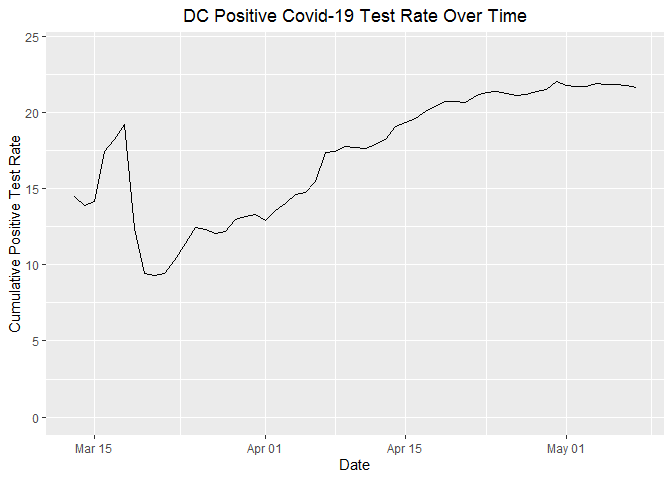
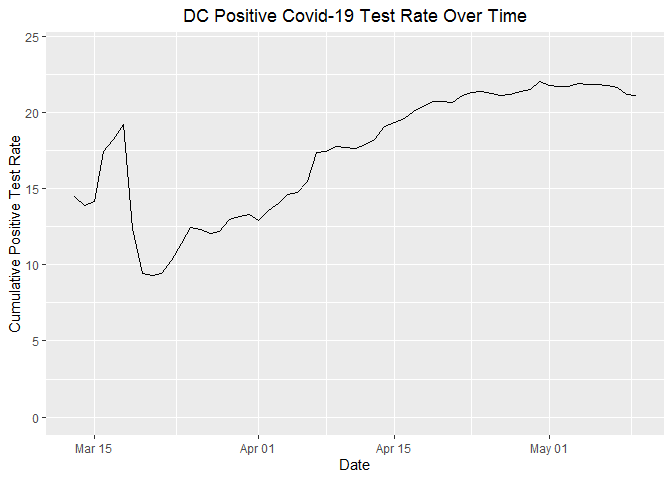
10 May data update

diff --git a/Markdown/Pos_Test_Rate.md b/Markdown/Pos_Test_Rate.md
@@ -1,7 +1,7 @@
 Positive Covid-19 Test Rate Increases Around DC
 ================
 
-2020-05-09 13:51:56
+2020-05-11 10:04:02
 
 The number of Covid-19 tests conducted in the DC area increased
 considerably through the first part of April and has generally plateaued
@@ -19,15 +19,15 @@ it doesn’t show abnormal spikes in late March.
 Despite plateauing or decreasing numbers of tests in the area, the
 cumulative positive test rate has increased over time since the rates
 spiked in mid-March, when fewer Covid-19 tests were being conducted.
-Right now, the cumulate positive rate in DC is 21.8%, the rate in
-Maryland is 20%, and the rate in Virginia is 17.2%.
+Right now, the cumulate positive rate in DC is 21.2%, the rate in
+Maryland is 20.4%, and the rate in Virginia is 16.8%.
 
 ![](Pos_Test_Rate_files/figure-gfm/pos_rate_cumulative-1.png)<!-- -->
 
 The recent increases in positive test rates are more pronounced when
 displayed as recent, rather than cumulative, averages. The average
-positive test rate between 2020-05-06 and 2020-05-08 was 20.7% in DC,
-27.9% in Maryland, and 12.8% in Virginia.  
+positive test rate between 2020-05-08 and 2020-05-10 was 16.6% in DC,
+28.4% in Maryland, and 12.6% in Virginia.  
 \` ![](Pos_Test_Rate_files/figure-gfm/rolling_pos_rate-1.png)<!-- -->
 
 New York state has generally had the highest testing rate of any state,
